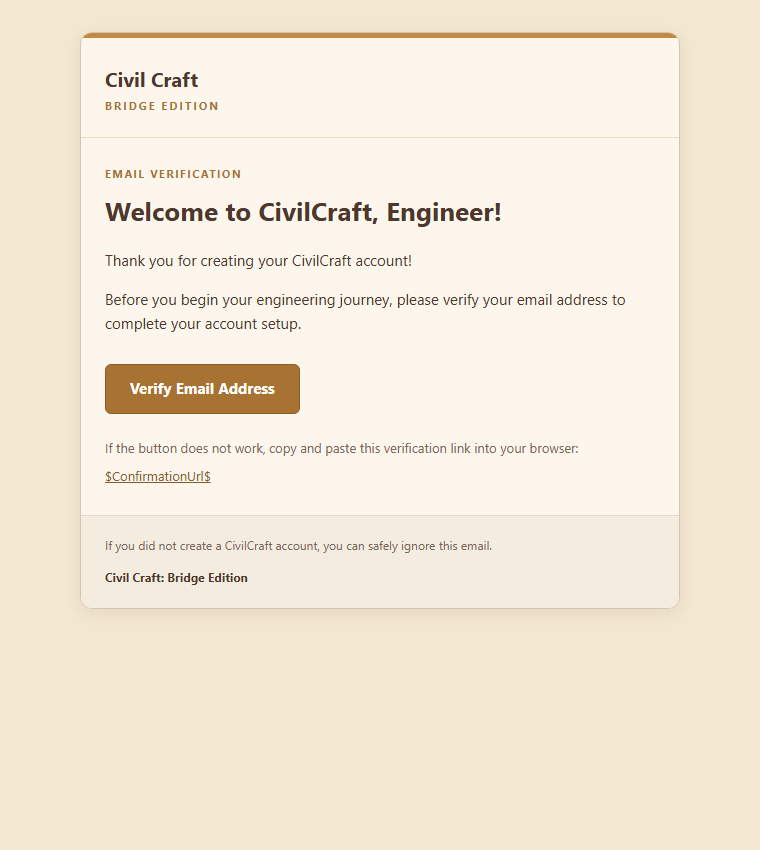
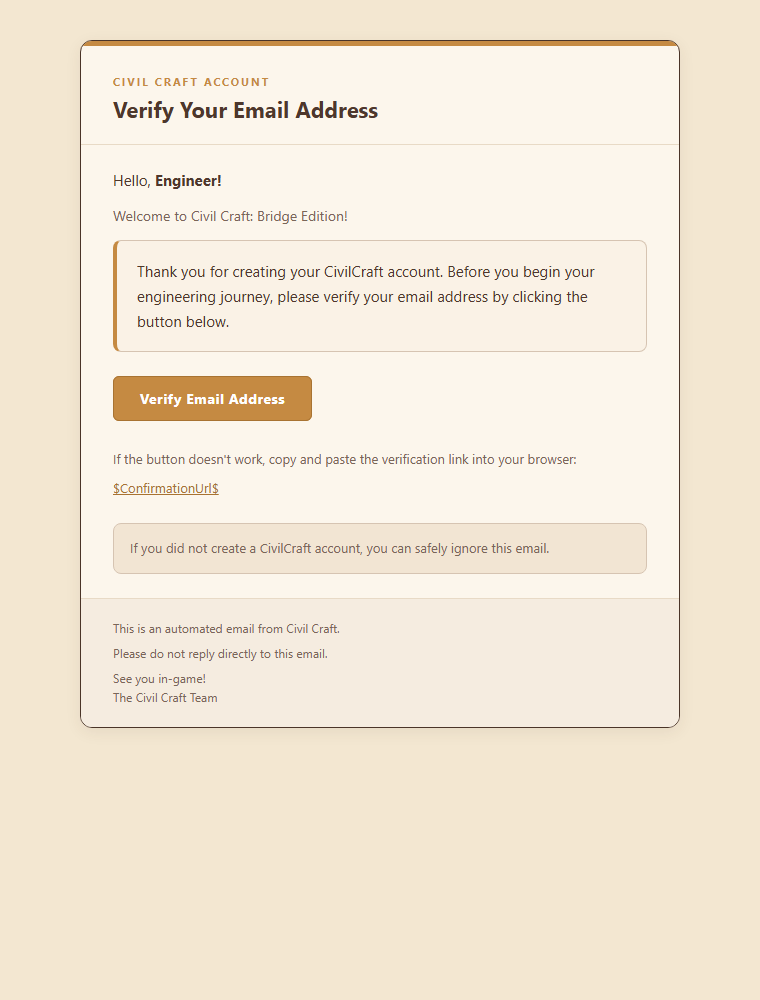
email verify temp

diff --git a/docs/email-verification/email-verification.html b/docs/email-verification/email-verification.html
@@ -2,40 +2,42 @@
 <html lang="en">
 <head>
   <meta charset="utf-8">
-  <meta name="viewport" content="width=device-width, initial-scale=1">
+  <meta name="viewport" content="width=device-width, initial-scale=1.0">
   <title>Verify Your CivilCraft Account</title>
 </head>
-<body style="margin:0;padding:0;background-color:#F3E7D1;color:#4E372C;font-family:'Nunito','Segoe UI',Arial,Helvetica,sans-serif;">
-  <div style="display:none;font-size:1px;line-height:1px;max-height:0;max-width:0;opacity:0;overflow:hidden;mso-hide:all;">Verify your email address to complete your CivilCraft account setup.</div>
-  <table role="presentation" width="100%" cellspacing="0" cellpadding="0" border="0" bgcolor="#F3E7D1">
-    <tr><td align="center" style="padding:32px 16px;">
-      <!--[if mso]><table role="presentation" width="600" cellspacing="0" cellpadding="0" border="0"><tr><td><![endif]-->
-      <table role="presentation" width="100%" cellspacing="0" cellpadding="0" border="0" bgcolor="#FCF6EC" style="table-layout:fixed;max-width:600px;border:1px solid #D6C4B2;border-radius:12px;overflow:hidden;box-shadow:0 4px 16px rgba(74,52,40,0.08);">
-        <tr><td bgcolor="#C58A42" style="height:5px;font-size:5px;line-height:5px;">&nbsp;</td></tr>
-        <tr><td style="padding:28px 24px 22px;border-bottom:1px solid #E8DAC6;">
-          <p style="margin:0 0 6px;font-size:20px;font-weight:700;line-height:1.3;color:#4E372C;">Civil Craft</p>
-          <p style="margin:0;font-size:11px;font-weight:700;letter-spacing:2px;line-height:1.5;color:#A87332;">BRIDGE EDITION</p>
+<body style="margin:0;padding:0;background-color:#F3E7D1;font-family:'Nunito',-apple-system,BlinkMacSystemFont,'Segoe UI',Roboto,Helvetica,Arial,sans-serif;color:#4E372C;">
+  <table role="presentation" width="100%" border="0" cellspacing="0" cellpadding="0" bgcolor="#F3E7D1">
+    <tr><td align="center" style="padding:40px 16px;">
+      <!--[if mso]><table role="presentation" width="600" border="0" cellspacing="0" cellpadding="0"><tr><td><![endif]-->
+      <table role="presentation" width="100%" border="0" cellspacing="0" cellpadding="0" bgcolor="#FCF6EC" style="table-layout:fixed;max-width:600px;background-color:#FCF6EC;border:1px solid #4A3428;border-radius:12px;overflow:hidden;box-shadow:0 4px 16px rgba(74,52,40,0.08);">
+        <tr><td bgcolor="#C58A42" style="height:5px;line-height:5px;font-size:5px;">&nbsp;</td></tr>
+        <tr><td style="padding:28px 32px 20px;border-bottom:1px solid #E8DAC6;">
+          <div style="font-size:11px;font-weight:700;color:#C58A42;letter-spacing:2px;text-transform:uppercase;">CIVIL CRAFT ACCOUNT</div>
+          <h1 style="margin:6px 0 0;font-size:22px;font-weight:700;color:#4E372C;line-height:1.3;">Verify Your Email Address</h1>
         </td></tr>
-        <tr><td style="padding:28px 24px 12px;">
-          <p style="margin:0 0 12px;font-size:11px;font-weight:700;letter-spacing:1.5px;line-height:1.5;color:#A87332;">EMAIL VERIFICATION</p>
-          <h1 style="margin:0 0 20px;font-size:26px;font-weight:700;line-height:1.3;color:#4E372C;">Welcome to CivilCraft, Engineer!</h1>
-          <p style="margin:0 0 14px;font-size:15px;line-height:1.65;color:#4E372C;">Thank you for creating your CivilCraft account!</p>
-          <p style="margin:0;font-size:15px;line-height:1.65;color:#4E372C;">Before you begin your engineering journey, please verify your email address to complete your account setup.</p>
+        <tr><td style="padding:24px 32px 16px;">
+          <p style="margin:0 0 14px;font-size:15px;color:#4E372C;line-height:1.5;">Hello, <strong>Engineer!</strong></p>
+          <p style="margin:0 0 14px;font-size:14px;color:#7A6658;line-height:1.5;">Welcome to Civil Craft: Bridge Edition!</p>
+          <div style="background-color:#FAF2E6;border:1px solid #D6C4B2;border-left:4px solid #C58A42;border-radius:8px;padding:18px 20px;color:#4E372C;font-size:15px;line-height:1.65;word-break:break-word;">Thank you for creating your CivilCraft account. Before you begin your engineering journey, please verify your email address by clicking the button below.</div>
         </td></tr>
-        <tr><td style="padding:16px 24px 24px;">
-          <table role="presentation" cellspacing="0" cellpadding="0" border="0">
-            <tr><td align="center" bgcolor="#A87332" style="border:1px solid #8A5C27;border-radius:6px;mso-padding-alt:14px 24px;">
-              <a href="$ConfirmationUrl$" style="display:inline-block;padding:14px 24px;border-radius:6px;font-size:15px;font-weight:700;line-height:1.3;font-family:'Segoe UI',Arial,Helvetica,sans-serif;color:#FFFFFF;text-decoration:none;">Verify Email Address</a>
+        <tr><td style="padding:8px 32px 28px;">
+          <table role="presentation" border="0" cellspacing="0" cellpadding="0">
+            <tr><td align="center" bgcolor="#C58A42" style="border-radius:6px;background-color:#C58A42;mso-padding-alt:12px 26px;">
+              <a href="$ConfirmationUrl$" target="_blank" style="display:inline-block;background-color:#C58A42;color:#FFFFFF;text-decoration:none;padding:12px 26px;border-radius:6px;font-size:14px;font-weight:700;letter-spacing:0.5px;border:1px solid #A87332;">Verify Email Address</a>
             </td></tr>
           </table>
         </td></tr>
-        <tr><td style="padding:0 24px 28px;">
-          <p style="margin:0 0 8px;font-size:13px;line-height:1.6;color:#7A6658;">If the button does not work, copy and paste this verification link into your browser:</p>
-          <p style="margin:0;font-size:13px;line-height:1.6;word-break:break-all;overflow-wrap:anywhere;"><a href="$ConfirmationUrl$" style="color:#8A5C27;text-decoration:underline;word-break:break-all;">$ConfirmationUrl$</a></p>
+        <tr><td style="padding:0 32px 24px;">
+          <p style="margin:0 0 8px;font-size:13px;color:#7A6658;line-height:1.6;">If the button doesn't work, copy and paste the verification link into your browser:</p>
+          <p style="margin:0;font-size:13px;line-height:1.6;word-break:break-all;overflow-wrap:anywhere;"><a href="$ConfirmationUrl$" style="color:#A87332;text-decoration:underline;word-break:break-all;">$ConfirmationUrl$</a></p>
         </td></tr>
-        <tr><td bgcolor="#F5ECE0" style="padding:20px 24px;border-top:1px solid #E8DAC6;">
-          <p style="margin:0 0 12px;font-size:12px;line-height:1.65;color:#7A6658;">If you did not create a CivilCraft account, you can safely ignore this email.</p>
-          <p style="margin:0;font-size:12px;font-weight:700;line-height:1.65;color:#4E372C;">Civil Craft: Bridge Edition</p>
+        <tr><td style="padding:0 32px 24px;">
+          <div style="background-color:#F2E5D3;border:1px solid #D6C4B2;border-radius:8px;padding:14px 16px;color:#7A6658;font-size:13px;line-height:1.6;">If you did not create a CivilCraft account, you can safely ignore this email.</div>
+        </td></tr>
+        <tr><td bgcolor="#F5ECE0" style="padding:20px 32px;background-color:#F5ECE0;border-top:1px solid #E8DAC6;font-size:12px;color:#7A6658;line-height:1.6;">
+          <p style="margin:0 0 6px;">This is an automated email from Civil Craft.</p>
+          <p style="margin:0 0 6px;">Please do not reply directly to this email.</p>
+          <p style="margin:0;">See you in-game!<br>The Civil Craft Team</p>
         </td></tr>
       </table>
       <!--[if mso]></td></tr></table><![endif]-->

diff --git a/docs/email-verification/README.md b/docs/email-verification/README.md
@@ -6,7 +6,7 @@ Copy the complete contents of `email-verification.html` into the existing PlayFa
 
 ## Branding and support
 
-Branding follows the player reply HTML in `src/lib/email/contact-resend.server.ts`: cream background #F3E7D1, card #FCF6EC, brown #4E372C, gold #C58A42, footer #F5ECE0, and system sans-serif fallbacks. The button uses the existing darker gold border color #A87332 as its fill for clearer white text. Text branding works without downloading a logo or external fonts. Password Recovery is currently plain text according to the supplied configuration; this is a shared visual identity, not a claim to reproduce a branded recovery template.
+This template reuses the Support Reply layout in the player/user reply branch of `src/lib/email/contact-resend.server.ts`: cream background #F3E7D1, centered 600px off-white card #FCF6EC, brown border #4A3428, 5px gold accent #C58A42, Nunito/system font stack, 11px uppercase label, 22px heading, and 32px horizontal padding. The instructions use the existing rounded reply box (#FAF2E6 with a gold left border), and the security note uses the original-inquiry box styling (#F2E5D3). The button reuses #C58A42 fill, #A87332 border, 6px radius, and 12px/26px padding. The footer reuses #F5ECE0, 12px text, and 20px/32px padding. Support Reply source was inspected but not changed.
 
 Microsoft documents HTML directly in the Email Verification Email body, including an anchor using `$ConfirmationUrl$`:
 https://learn.microsoft.com/en-us/xbox/playfab/live-service-management/game-configuration/title-communications/emails/using-a-rule-to-verify-a-contact-email-address
